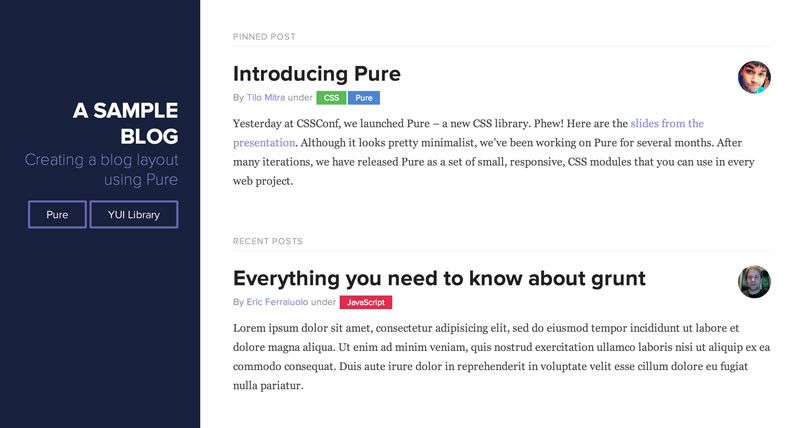
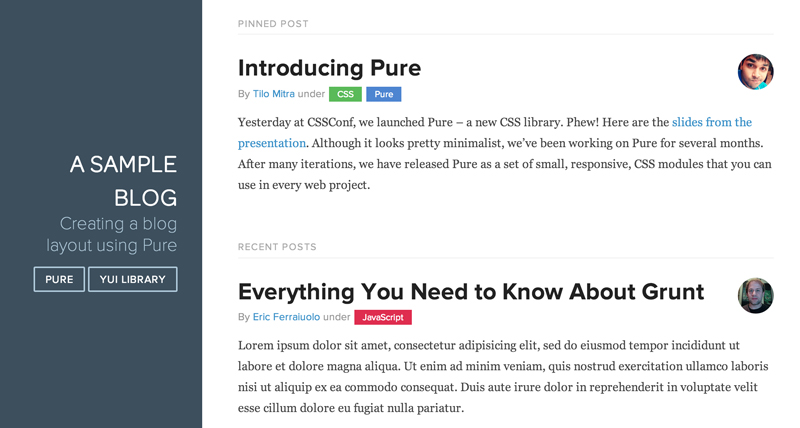
update blog layout colors & image

diff --git a/public/css/layouts/blog.css b/public/css/layouts/blog.css
@@ -11,7 +11,7 @@ body,
 
 a {
     text-decoration: none;
-    color: rgb(142, 142, 214);
+    color: rgb(61, 146, 201);
 }
 a:hover,
 a:focus {
@@ -39,7 +39,7 @@ h3 {
 }
 
 .sidebar {
-    background: rgb(25, 25, 25);
+    background: rgb(61, 79, 93);
     color: #fff;
 }
 
@@ -52,7 +52,7 @@ h3 {
 }
 .brand-tagline {
     font-weight: 300;
-    color: rgb(49, 252, 235);
+    color: rgb(176, 202, 219);
 }
 
 .nav-list {
@@ -67,7 +67,7 @@ h3 {
 }
 .nav-item a {
     background: transparent;
-    border: 2px solid rgb(41, 164, 175);
+    border: 2px solid rgb(176, 202, 219);
     color: #fff;
     margin-top: 1em;
     letter-spacing: 0.05em;
@@ -76,7 +76,7 @@ h3 {
 }
 .nav-item a:hover,
 .nav-item a:focus {
-    border: 2px solid rgb(49, 252, 235);
+    border: 2px solid rgb(61, 146, 201);
     text-decoration: none;
 }
 
